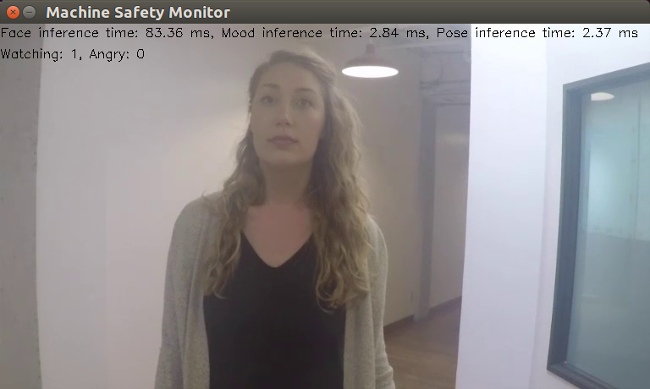
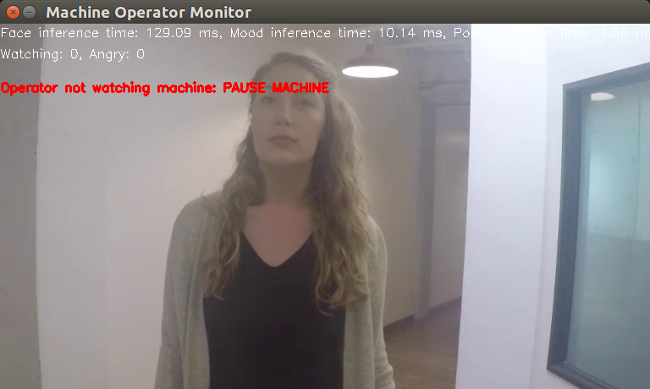
Make naming the same across entire app

Changed region(s): [[0.0, 0.0, 0.9846, 0.1234], [0.0, 0.1851, 0.5231, 0.2468], [0.0, 0.1234, 0.2154, 0.1542]]

diff --git a/src/main.cpp b/src/main.cpp
@@ -457,11 +457,11 @@ int main(int argc, char** argv)
         addImage(frame);
 
         string label = getCurrentPerf();
-        putText(frame, label, Point(0, 15), FONT_HERSHEY_SIMPLEX, 0.5, Scalar(0, 0, 0));
+        putText(frame, label, Point(0, 15), FONT_HERSHEY_SIMPLEX, 0.5, Scalar(255, 255, 255));
 
         WorkerInfo info = getCurrentInfo();
         label = format("Watching: %d, Angry: %d", info.watching, info.angry);
-        putText(frame, label, Point(0, 40), FONT_HERSHEY_SIMPLEX, 0.5, Scalar(0, 0, 0));
+        putText(frame, label, Point(0, 40), FONT_HERSHEY_SIMPLEX, 0.5, Scalar(255, 255, 255));
 
         if (!info.watching) {
             string warning;
@@ -475,7 +475,7 @@ int main(int argc, char** argv)
             putText(frame, warning, Point(0, 80), FONT_HERSHEY_SIMPLEX, 0.5, CV_RGB(255, 0, 0), 2);
         }
 
-        imshow("Machine Safety Monitor", frame);
+        imshow("Machine Operator Monitor", frame);
 
         if (waitKey(delay) >= 0 || sig_caught) {
             cout << "Attempting to stop background threads" << endl;
